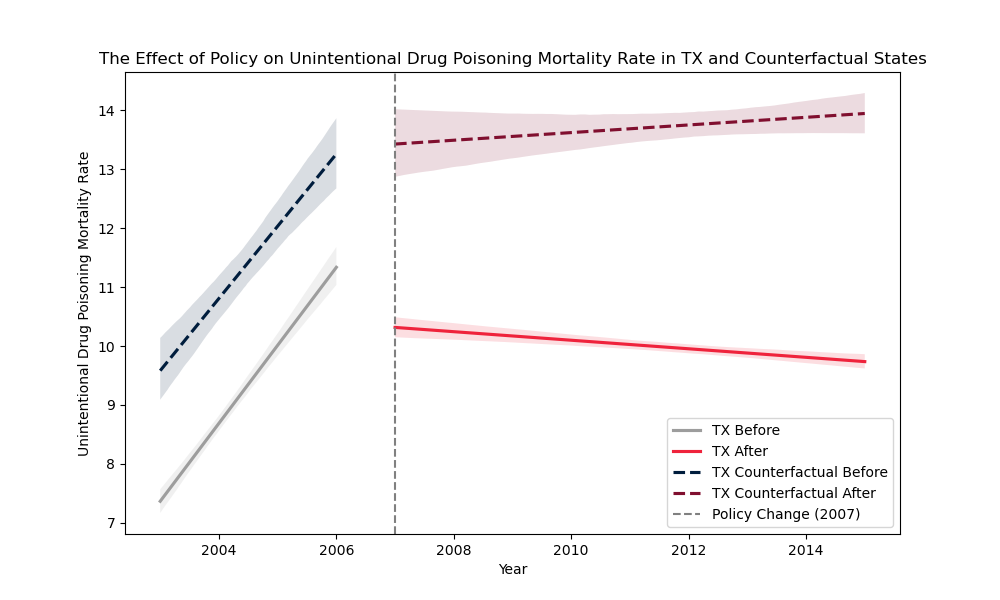
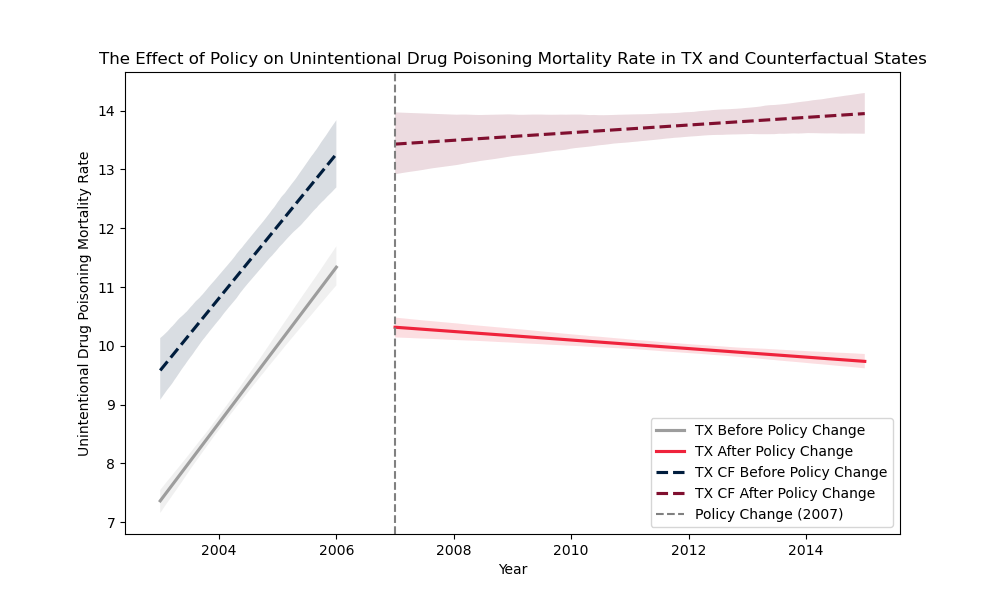
update plots

diff --git a/10_code/70_analyze_data_diff_diff_plots_texas.py b/10_code/70_analyze_data_diff_diff_plots_texas.py
@@ -1,0 +1,126 @@
+import seaborn as sns
+import matplotlib.pyplot as plt
+import pandas as pd
+import numpy as np
+from matplotlib import dates as mdates
+
+
+def plot_regression(
+    data,
+    state_filter,
+    counterfactual_states,
+    break_date,
+    response_variable,
+    save_suffix,
+):
+    # Filter data by the original state
+    data_filtered = data[data["state_name"] == state_filter]
+
+    # Filter data before and after the breakpoint date for the original state
+    df_before_break = data_filtered[data_filtered["year_month"] < break_date]
+    df_after_break = data_filtered[data_filtered["year_month"] >= break_date]
+
+    # Create a figure
+    plt.figure(figsize=(10, 6))
+
+    # Define color variables
+    color_original_before = "#9D9D9D"
+    color_original_after = "#ef233c"
+    color_counterfactual_before = "#001d3d"
+    color_counterfactual_after = "#800f2f"
+    color_breakline = "gray"
+
+    linestyle_counterfactual = "--"
+
+    # Linear regression for the original state before and after the breakpoint date
+    for label, df, color in zip(
+        [f"{state_filter} Before Policy Change", f"{state_filter} After Policy Change"],
+        [df_before_break, df_after_break],
+        [color_original_before, color_original_after],
+    ):
+        x_values = mdates.date2num(df["year_month"])
+        sns.regplot(
+            x=x_values,
+            y=response_variable,
+            data=df,
+            ci=90,
+            scatter=False,
+            label=label,
+            line_kws={"color": color},
+        )
+
+    # Filter data for the counterfactual states and combine their data
+    df_counterfactual = data[data["state_name"].isin(counterfactual_states)]
+    df_before_break_counterfactual = df_counterfactual[
+        (df_counterfactual["year_month"] < break_date)
+    ]
+    df_after_break_counterfactual = df_counterfactual[
+        (df_counterfactual["year_month"] >= break_date)
+    ]
+
+    # Linear regression for the counterfactual states before and after the breakpoint date
+    for label, df, state, color in zip(
+        ["CF Before Policy Change", "CF After Policy Change"],
+        [df_before_break_counterfactual, df_after_break_counterfactual],
+        counterfactual_states,
+        [
+            color_counterfactual_before,
+            color_counterfactual_after,
+        ],
+    ):
+        x_values = mdates.date2num(df["year_month"])
+        sns.regplot(
+            x=x_values,
+            y=response_variable,
+            data=df,
+            ci=90,
+            scatter=False,
+            label=f"{state_filter} {label}",
+            line_kws={"color": color, "linestyle": linestyle_counterfactual},
+        )
+
+    # Add breakpoint date
+    plt.axvline(
+        x=mdates.date2num(break_date),
+        color=color_breakline,
+        linestyle="--",
+        label=f"Policy Change (2007)",
+    )
+
+    # Add labels and legend
+    plt.xlabel("Year and Month")
+    plt.ylabel("Morphine Milligram Equivalent Per Capita")
+    plt.title(
+        f"The Effect of Policy on Morphine Milligram Equivalent Per Capita in {state_filter} and Counterfactual States"
+    )
+
+    plt.gca().xaxis.set_major_locator(mdates.MonthLocator(interval=6))
+    plt.gca().xaxis.set_major_formatter(mdates.DateFormatter("%Y-%m"))
+    plt.xticks(rotation=90)
+    plt.legend()
+
+    plt.tight_layout()
+
+    # Save the figure to the specified path
+    save_path = f"../30_results/{save_suffix}.png"
+    plt.savefig(save_path)
+
+
+# Load the data
+monthly_data = pd.read_csv(
+    "../20_intermediate_files/texas_population_opioids_monthly.csv"
+)
+monthly_data = monthly_data[monthly_data["merge_population_opioids"] == "both"]
+monthly_data["year_month"] = pd.to_datetime(monthly_data["year_month"])
+
+# Set the breakpoint
+breakpoint_date = pd.to_datetime("2007-01")
+
+plot_regression(
+    monthly_data,
+    state_filter="TX",
+    counterfactual_states=["NY", "VA", "ID"],
+    break_date=breakpoint_date,
+    response_variable="mme_per_capita",
+    save_suffix="TX_vs_NY-VA-ID_MME",
+)

diff --git a/10_code/70_analyze_data_diff_diff_plots.py b/10_code/70_analyze_data_diff_diff_plots.py
@@ -1,6 +1,7 @@
 import seaborn as sns
 import matplotlib.pyplot as plt
 import pandas as pd
+import numpy as np
 
 
 def plot_regression(
@@ -32,7 +33,7 @@ def plot_regression(
 
     # Linear regression for the original state before and after the breakpoint year
     for label, df, color in zip(
-        [f"{state_filter} Before", f"{state_filter} After"],
+        [f"{state_filter} Before Policy Change", f"{state_filter} After Policy Change"],
         [df_before_break, df_after_break],
         [color_original_before, color_original_after],
     ):
@@ -57,7 +58,7 @@ def plot_regression(
 
     # Linear regression for the counterfactual states before and after the breakpoint year
     for label, df, state, color in zip(
-        ["Counterfactual Before", "Counterfactual After"],
+        ["CF Before Policy Change", "CF After Policy Change"],
         [df_before_break_counterfactual, df_after_break_counterfactual],
         counterfactual_states,
         [
@@ -84,7 +85,10 @@ def plot_regression(
     )
 
     # Add labels and legend
-    plt.xlabel("Year")
+    if data is monthly_data:
+        plt.xlabel("Months from Policy Change")
+    else:
+        plt.xlabel("Year")
 
     if response_variable == "mme_per_capita":
         plt.ylabel("Morphine Milligram Equivalent Per Capita")
@@ -108,6 +112,22 @@ def plot_regression(
 annual_data = pd.read_csv(
     "../20_intermediate_files/us_population_vitalstatistics_opioids_yearly.csv"
 )
+
+
+# Load the dataset
+monthly_data = pd.read_csv(
+    "../20_intermediate_files/texas_population_opioids_monthly.csv"
+)
+monthly_data = monthly_data[monthly_data["merge_population_opioids"] == "both"]
+monthly_data["year_month"] = pd.to_datetime(monthly_data["year_month"])
+policy_change_date = pd.to_datetime("2007-01")
+
+# Create the new column 'months_from_policy_change'
+monthly_data["year"] = (
+    monthly_data["year_month"] - policy_change_date
+) / np.timedelta64(1, "M")
+monthly_data["year"] = np.floor(monthly_data["year"]).astype(int)
+
 
 # Texas vs NY, VA, ID - filled_mortality_rate_unintentional_drug_poisoning
 plot_regression(
